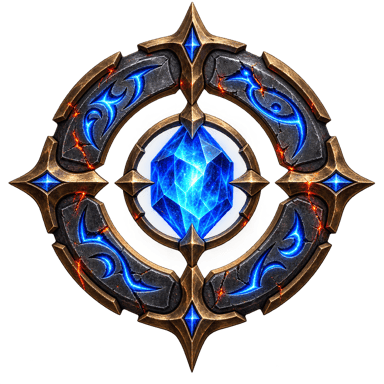
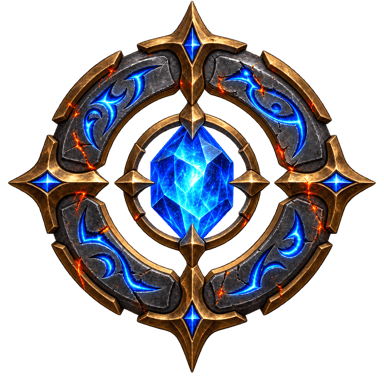
fix: remove loading rune background haze

Changed region(s): [[0.0312, 0.0, 0.9688, 0.9688]]

diff --git a/src/styles.css b/src/styles.css
@@ -150,13 +150,11 @@ button:active { filter: brightness(.93); }
 .fantasy-experience canvas:focus-visible { outline: 1px solid #c49c58; outline-offset: 4px; border-radius: 12px; }
 .model-loader { display: grid; place-items: center; margin: auto; }
 .model-loader-rams { width: 36px; height: 36px; border: 2px solid #aeb5a7; border-top-color: #c96f43; border-radius: 50%; animation: loader-spin 1s linear infinite; }
-.model-loader-fantasy { --model-progress: 8%; position: absolute; z-index: 4; top: 50%; left: 50%; width: 156px; height: 156px; translate: -50% -50%; filter: drop-shadow(0 0 22px #187ee084); }
+.model-loader-fantasy { --model-progress: 8%; position: absolute; z-index: 4; top: 50%; left: 50%; width: 156px; height: 156px; translate: -50% -50%; }
 .model-loader-fantasy img { position: relative; z-index: 2; width: 100%; height: 100%; object-fit: contain; animation: loader-rune 3.2s cubic-bezier(.45,0,.55,1) infinite; }
-.model-loader-progress { position: absolute; z-index: 1; inset: 7px; border-radius: 50%; background: conic-gradient(#49aaff var(--model-progress),#d8642820 0); -webkit-mask: radial-gradient(circle,transparent 57%,#000 59%); mask: radial-gradient(circle,transparent 57%,#000 59%); filter: drop-shadow(0 0 7px #3ca8ff); transition: background .25s ease-out; }
-.model-loader-core { position: absolute; z-index: 3; width: 30px; height: 30px; border-radius: 42% 58% 48% 52%; background: #c8f3ff; box-shadow: 0 0 16px #48b7ff,0 0 38px #186fe0; animation: loader-core 1.25s ease-in-out infinite alternate; }
+.model-loader-progress { position: absolute; z-index: 1; inset: 7px; border-radius: 50%; background: conic-gradient(#e2b45e var(--model-progress),transparent 0); -webkit-mask: radial-gradient(circle,transparent 57%,#000 59%); mask: radial-gradient(circle,transparent 57%,#000 59%); transition: background .25s ease-out; }
 @keyframes loader-spin { to { rotate: 360deg; } }
 @keyframes loader-rune { 0%,100% { rotate: -3deg; transform: scale(.96); } 50% { rotate: 3deg; transform: scale(1); } }
-@keyframes loader-core { to { transform: scale(.72) rotate(18deg); opacity: .62; } }
 .fantasy-glass { width: 780px; height: 268px; border-radius: 34px; overflow: hidden; background: #10171b; color: #eee1c5; pointer-events: auto; --ink: #e1c593; --selected-text: #161b1e; font: 32px/1.5 -apple-system,BlinkMacSystemFont,"PingFang SC",sans-serif; }
 .fantasy-flat-screen { width: min(100%,640px); height: min(310px,55svh); margin: 0 auto; font-size: 18px; }
 .fantasy-glass ::selection { background: #b99450; color: #111b21; }

diff --git a/src/ModelLoader.tsx b/src/ModelLoader.tsx
@@ -6,6 +6,5 @@ export function ModelLoader({ fantasy = false, progress }: { fantasy?: boolean; 
   return <div className="model-loader model-loader-fantasy" role="progressbar" aria-label="正在装配魔兽世界 3D 收音机" aria-valuemin={0} aria-valuemax={100} aria-valuenow={percent} style={{ "--model-progress": `${percent}%` } as CSSProperties}>
     <span className="model-loader-progress" aria-hidden="true" />
     <img src="/assets/warcraft-loading-rune.png" alt="" loading="eager" fetchPriority="high" />
-    <span className="model-loader-core" aria-hidden="true" />
   </div>;
 }
